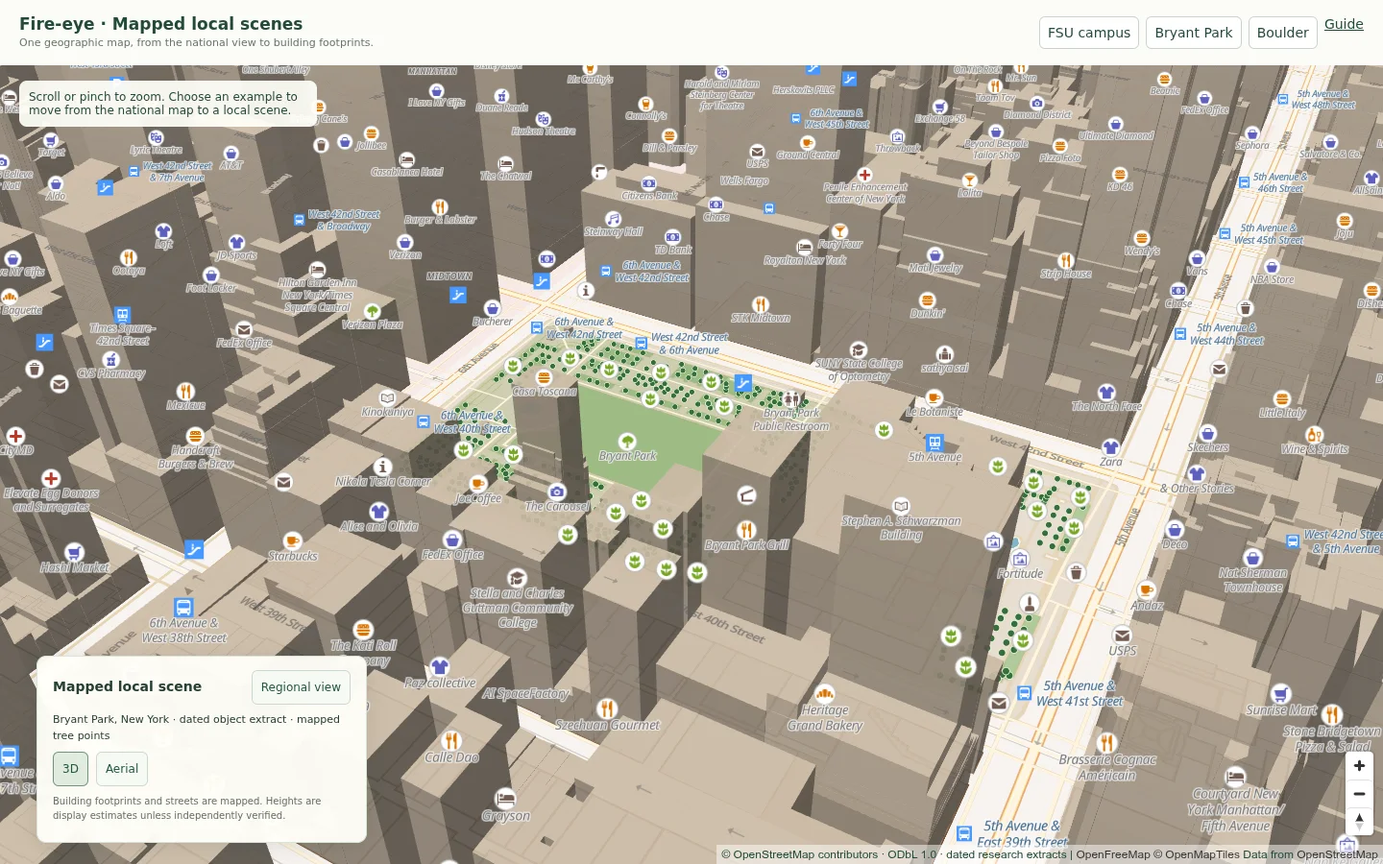
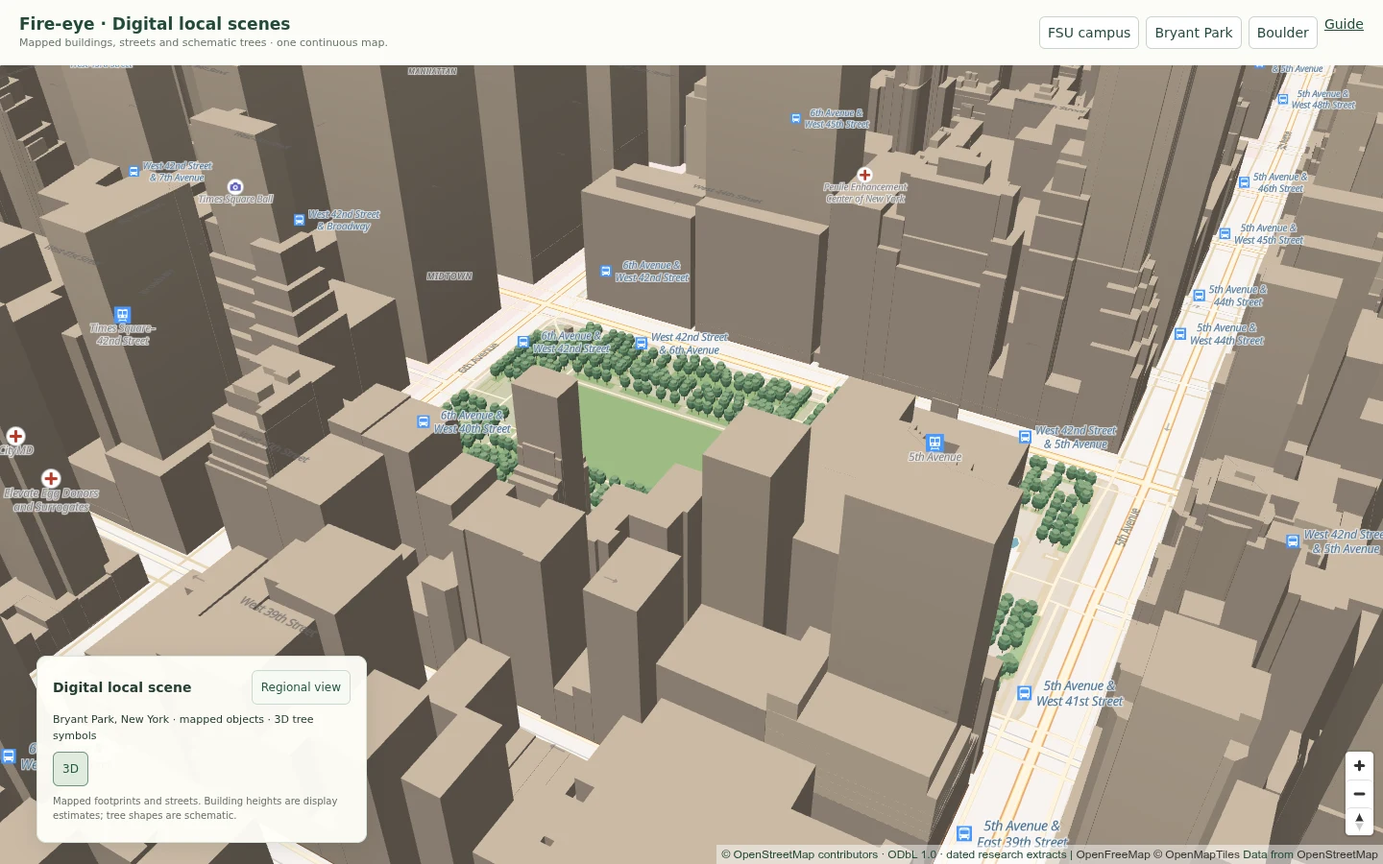
Present mapped local scenes with digital tree geometry

diff --git a/scene/geographic-scene.js b/scene/geographic-scene.js
@@ -2,22 +2,38 @@
 (function(global){
  'use strict';
  const PREFIX='mapped-scene-',SOURCE='openmaptiles';
+ // Render-only symbols: original point geometry and unknown dimensions stay
+ // untouched in the source collection and in the simulation handoff.
+ function treeSymbols(collection){
+  const features=[];
+  for(const f of collection.features){
+   if(f.properties?.kind!=='tree'||f.geometry?.type!=='Point')continue;
+   const [lon,lat]=f.geometry.coordinates;if(!Number.isFinite(lon)||!Number.isFinite(lat)||Math.abs(lat)>85)continue;
+   const tagged=f.properties.height_m,h=typeof tagged==='number'&&tagged>0&&tagged<=120?tagged:8;
+   const parts=[['trunk',.18,0,h*.45],['lower',1.7,h*.36,h*.53],['crown',2.4,h*.53,h*.82],['upper',1.6,h*.82,h]];
+   for(const [part,radius,base,height] of parts){
+    const ring=[];for(let i=0;i<8;i++){const angle=i*Math.PI/4;ring.push([lon+radius*Math.cos(angle)/(111320*Math.cos(lat*Math.PI/180)),lat+radius*Math.sin(angle)/111320]);}ring.push([...ring[0]]);
+    features.push({type:'Feature',geometry:{type:'Polygon',coordinates:[ring]},properties:{kind:'tree',source_id:f.properties.source_id,render_part:part,render_base_m:base,render_height_m:height,display_only:true}});
+   }
+  }
+  return {type:'FeatureCollection',features};
+ }
  function mount(map,options={}){
   const create=(tag,text,cls)=>{const e=document.createElement(tag);if(text)e.textContent=text;if(cls)e.className=cls;return e;};
-  const panel=create('section',null,'mapped-scene-panel');panel.hidden=true;panel.setAttribute('aria-label','Mapped local scene');
-  const top=create('div',null,'mapped-scene-heading'),title=create('strong','Mapped local scene'),back=create('button','Regional view');back.type='button';
+  const panel=create('section',null,'mapped-scene-panel');panel.hidden=true;panel.setAttribute('aria-label','Digital local scene');
+  const top=create('div',null,'mapped-scene-heading'),title=create('strong','Digital local scene'),back=create('button','Regional view');back.type='button';
   top.append(title,back);panel.append(top);
   const status=create('p','Zoom in to explore mapped buildings and streets.','mapped-scene-status');status.setAttribute('role','status');panel.append(status);
-  const actions=create('div',null,'mapped-scene-actions'),tilt=create('button','3D'),aerial=create('button','Aerial'),illustration=create('button','Illustration');
-  for(const b of [tilt,aerial,illustration]){b.type='button';actions.append(b);}panel.append(actions);
-  tilt.setAttribute('aria-pressed','false');aerial.setAttribute('aria-pressed','false');
-  const note=create('p','Building footprints and streets are mapped. Heights are display estimates unless independently verified.','mapped-scene-note');panel.append(note);
-  const imageryNote=create('p','USGS / USDA orthophotography · imagery dates vary by location; not live.','mapped-scene-note');imageryNote.hidden=true;panel.append(imageryNote);
+  const actions=create('div',null,'mapped-scene-actions'),tilt=create('button','3D'),illustration=create('button','Illustration');
+  for(const b of [tilt,illustration]){b.type='button';actions.append(b);}panel.append(actions);
+  tilt.setAttribute('aria-pressed','false');
+  const note=create('p','Mapped footprints and streets. Building heights are display estimates; tree shapes are schematic.','mapped-scene-note');panel.append(note);
   const detail=create('div',null,'mapped-scene-detail');detail.hidden=true;panel.append(detail);
   (options.container||document.body).append(panel);
-  let ready=false,disposed=false,installing=false,previous=null,popup=null,requested=false,aerialEnabled=false,terrainTilt=false,metricsTimer=null,imageryFailed=false;
+  let ready=false,disposed=false,installing=false,previous=null,popup=null,requested=false,terrainTilt=false,metricsTimer=null;
   let catalogTask=null,areaId=null,area=null,areaData=null,areaController=null,areaSequence=0;
   const objectSource=PREFIX+'objects',objectLayers=[PREFIX+'object-areas',PREFIX+'object-buildings',PREFIX+'object-height',PREFIX+'object-roads',PREFIX+'object-trees',PREFIX+'object-footprints'];
+  const treeSource=PREFIX+'tree-symbols',treeLayer=PREFIX+'tree-models';let treeData=null;
   const areaCache=new Map(),empty={type:'FeatureCollection',features:[]};
   const layers=[PREFIX+'areas',PREFIX+'water',PREFIX+'paths',PREFIX+'roads',PREFIX+'buildings',PREFIX+'outlines'];
   const opacity=['interpolate',['linear'],['zoom'],13,0,15,1];
@@ -33,7 +49,7 @@
     add(layers[1],'fill','water',{'fill-color':'#79b3c4','fill-opacity':['interpolate',['linear'],['zoom'],13,0,15,.7]});
     add(layers[2],'line','transportation',{'line-color':'#e8d6b4','line-width':['interpolate',['exponential',1.5],['zoom'],13,.7,16,2,20,12],'line-opacity':opacity},['all',['!=',['get','brunnel'],'tunnel'],['match',['get','class'],['path','track','pedestrian'],true,false]]);
     add(layers[3],'line','transportation',{'line-color':'#fbf8ef','line-width':['interpolate',['exponential',1.5],['zoom'],13,1,16,3,20,20],'line-opacity':opacity},['all',['!=',['get','brunnel'],'tunnel'],['match',['get','class'],['motorway','trunk','primary','secondary','tertiary','minor','service','street'],true,false]]);
-    add(layers[4],'fill-extrusion','building',{'fill-extrusion-color':'#c4b39e','fill-extrusion-opacity':['interpolate',['linear'],['zoom'],14,0,15.5,.9],'fill-extrusion-height':['interpolate',['linear'],['zoom'],14.8,0,16,['max',0,['min',1000,['to-number',['get','render_height'],0]]]],'fill-extrusion-base':['max',0,['to-number',['get','render_min_height'],0]]},['!=',['get','hide_3d'],true]);
+    add(layers[4],'fill-extrusion','building',{'fill-extrusion-color':'#c4b39e','fill-extrusion-opacity':['interpolate',['linear'],['zoom'],14,0,15.5,1],'fill-extrusion-height':['interpolate',['linear'],['zoom'],14.8,0,16,['max',0,['min',1000,['to-number',['get','render_height'],0]]]],'fill-extrusion-base':['max',0,['to-number',['get','render_min_height'],0]]},['!=',['get','hide_3d'],true]);
     add(layers[5],'line','building',{'line-color':'#705e4d','line-width':['interpolate',['linear'],['zoom'],14,.3,18,1.1],'line-opacity':opacity});
     if(options.catalogURL){
      if(!map.getSource(objectSource))map.addSource(objectSource,{type:'geojson',data:areaData||empty,attribution:'© OpenStreetMap contributors · ODbL 1.0 · dated research extracts'});
@@ -44,7 +60,10 @@
      // Use one extrusion surface; duplicate, near-identical meshes produce
      // depth flicker. Complete source geometry/height remains in the contract.
      objectLayer(objectLayers[3],'line',{'line-color':'#fff4df','line-width':['interpolate',['linear'],['zoom'],14,1,19,4]},['all',['==',['get','kind'],'transportation'],['!=',['get','below_ground'],true],['!=',['get','indoor'],true]]);
-     objectLayer(objectLayers[4],'circle',{'circle-radius':['interpolate',['linear'],['zoom'],14,1.4,18,3.8,20,5],'circle-color':'#346f3d','circle-stroke-width':.7,'circle-stroke-color':'#e3efcf'},['==',['get','kind'],'tree']);
+     const pointFade=['interpolate',['linear'],['zoom'],16,1,17,0];
+     objectLayer(objectLayers[4],'circle',{'circle-radius':['interpolate',['linear'],['zoom'],14,1.4,18,3.8,20,5],'circle-color':'#346f3d','circle-opacity':pointFade,'circle-stroke-opacity':pointFade,'circle-stroke-width':.7,'circle-stroke-color':'#e3efcf'},['==',['get','kind'],'tree']);
+     if(!map.getSource(treeSource))map.addSource(treeSource,{type:'geojson',data:treeData||empty});
+     if(!map.getLayer(treeLayer))map.addLayer({id:treeLayer,type:'fill-extrusion',source:treeSource,minzoom:16,paint:{'fill-extrusion-color':['match',['get','render_part'],'trunk','#806249','lower','#4a7759','crown','#628f69','#85a67d'],'fill-extrusion-opacity':['interpolate',['linear'],['zoom'],16,0,17,1],'fill-extrusion-base':['get','render_base_m'],'fill-extrusion-height':['get','render_height_m']}},firstSymbol());
     }
     // Ground lines and point symbols belong below buildings, not over roofs.
     for(const id of [layers[5],...objectLayers]){
@@ -55,18 +74,9 @@
    }catch{status.textContent='Local map detail is loading; the regional map remains available.';}
    finally{installing=false;}
   }
-  function hideAerial(){if(map.getLayer(PREFIX+'aerial'))map.setPaintProperty(PREFIX+'aerial','raster-opacity',0);}
-  function applyAerial(){
-   if(!aerialEnabled){hideAerial();return;}
-   try{
-    if(!map.getSource(PREFIX+'aerial'))map.addSource(PREFIX+'aerial',{type:'raster',tiles:['https://basemap.nationalmap.gov/arcgis/rest/services/USGSImageryOnly/MapServer/tile/{z}/{y}/{x}'],tileSize:256,minzoom:13,maxzoom:16,attribution:'USGS / USDA The National Map orthophotography; acquisition dates vary'});
-    if(!map.getLayer(PREFIX+'aerial'))map.addLayer({id:PREFIX+'aerial',type:'raster',source:PREFIX+'aerial',minzoom:13,paint:{'raster-opacity':.92,'raster-fade-duration':200}},map.getLayer(layers[0])?layers[0]:firstSymbol());
-    const alpha=imageryFailed?0:.92;if(map.getPaintProperty(PREFIX+'aerial','raster-opacity')!==alpha)map.setPaintProperty(PREFIX+'aerial','raster-opacity',alpha);
-   }catch{imageryFailed=true;hideAerial();}
-  }
   function metrics(){
    if(disposed||panel.hidden||!ready)return;
-   try{const ids=new Set(map.queryRenderedFeatures({layers:[layers[4]]}).map(f=>String(f.id??JSON.stringify(f.geometry.coordinates))));status.textContent=imageryFailed?'Aerial imagery could not load; mapped geometry remains visible.':area?area.title+' · dated object extract'+(area.feature_counts.tree?' · mapped tree points':''):ids.size?ids.size.toLocaleString()+' mapped building parts in view · select an outline to inspect':'Mapped local detail · zoom or pan to a built-up area';}catch{}
+   try{const ids=new Set(map.queryRenderedFeatures({layers:[layers[4]]}).map(f=>String(f.id??JSON.stringify(f.geometry.coordinates))));status.textContent=area?area.title+' · mapped objects'+(area.feature_counts.tree?' · 3D tree symbols':' · no tree inventory in this extract'):ids.size?ids.size.toLocaleString()+' mapped building parts in view · select an outline to inspect':'Mapped local detail · zoom or pan to a built-up area';}catch{}
   }
   async function loadArea(){
    if(disposed||!options.catalogURL||map.getZoom()<14)return;
@@ -76,7 +86,7 @@
     const catalog=await catalogTask;if(disposed||map.getZoom()<14)return;
     if(catalog.schema_version!==1||catalog.kind!=='geographic-scene-catalog'||!Array.isArray(catalog.areas)||catalog.areas.length>50)throw Error('Unsupported object catalog');
     const bounds=map.getBounds(),found=catalog.areas.find(a=>{const b=a.bbox_wgs84;return b&&b.length===4&&b.every(Number.isFinite)&&b[0]<bounds.getEast()&&b[2]>bounds.getWest()&&b[1]<bounds.getNorth()&&b[3]>bounds.getSouth();});
-    const next=found?.id||null;if(areaId===next)return;areaId=next;const seq=++areaSequence;areaController?.abort();area=null;areaData=null;map.getSource(objectSource)?.setData(empty);
+    const next=found?.id||null;if(areaId===next)return;areaId=next;const seq=++areaSequence;areaController?.abort();area=null;areaData=null;treeData=null;map.getSource(objectSource)?.setData(empty);map.getSource(treeSource)?.setData(empty);
     if(!found){scheduleMetrics();return;}
     let data=areaCache.get(found.id);
     if(!data){
@@ -87,7 +97,7 @@
      data=JSON.parse(new TextDecoder().decode(bytes));if(data.type!=='FeatureCollection'||!Array.isArray(data.features)||data.features.length>10000)throw Error('Invalid object collection');
      areaCache.set(found.id,data);while(areaCache.size>3)areaCache.delete(areaCache.keys().next().value);
     }
-    if(disposed||seq!==areaSequence)return;area=found;areaData=data;ensure();map.getSource(objectSource)?.setData(data);scheduleMetrics();
+    if(disposed||seq!==areaSequence)return;area=found;areaData=data;treeData=treeSymbols(data);ensure();map.getSource(objectSource)?.setData(data);map.getSource(treeSource)?.setData(treeData);scheduleMetrics();
    }catch(e){if(e.name!=='AbortError'){areaId=null;status.textContent='Detailed object extract is unavailable; the mapped basemap remains usable.';}}
   }
   function scheduleMetrics(){clearTimeout(metricsTimer);metricsTimer=setTimeout(metrics,350);}
@@ -120,14 +130,15 @@
    if(disposed||map.getZoom()<14||!ready)return false;
    const rendered=map.queryRenderedFeatures(e.point);
    if(rendered.some(f=>['WF','RX','CX','detection'].includes(f.properties?.kind)))return false;
-   const feature=rendered.find(f=>f.layer.id===objectLayers[4])||rendered.find(f=>f.source===objectSource&&f.properties?.kind==='building')||rendered.find(f=>objectLayers.includes(f.layer.id))||rendered.find(f=>[layers[4],layers[5],layers[3],layers[2]].includes(f.layer.id));
+   const feature=rendered.find(f=>f.layer.id===treeLayer)||rendered.find(f=>f.layer.id===objectLayers[4])||rendered.find(f=>f.source===objectSource&&f.properties?.kind==='building')||rendered.find(f=>objectLayers.includes(f.layer.id))||rendered.find(f=>[layers[4],layers[5],layers[3],layers[2]].includes(f.layer.id));
    if(!feature)return false;
-   if(feature.source===objectSource){
-    const p=feature.properties||{},original=areaData?.features.find(f=>f.properties.source_id===p.source_id),heading=p.name||p.address||({tree:'Mapped tree point',building:'Mapped building',pedestrian_area:'Mapped pedestrian area',land_area:'Mapped land use',transportation:'Mapped street / path',water:'Mapped water'}[p.kind]||'Mapped object');
+   if(feature.source===objectSource||feature.source===treeSource){
+    if(!area)return false;
+    const original=areaData?.features.find(f=>f.properties.source_id===feature.properties?.source_id),p=original?.properties||feature.properties||{},heading=p.name||p.address||({tree:'Mapped tree location',building:'Mapped building',pedestrian_area:'Mapped pedestrian area',land_area:'Mapped land use',transportation:'Mapped street / path',water:'Mapped water'}[p.kind]||'Mapped object');
     detail.replaceChildren(create('strong',heading),create('p',p.source_id+' · OpenStreetMap'),create('p',e.lngLat.lat.toFixed(6)+'°, '+e.lngLat.lng.toFixed(6)));
     if(p.address)detail.append(create('p',p.address));
     if(['tree','building'].includes(p.kind))detail.append(create('p',typeof p.height_m==='number'?'Source-tagged height: '+p.height_m+' m; not independently surveyed here.':'Height is not mapped.'));
-    if(p.kind==='tree')detail.append(create('p','Point denotes a recorded tree location; symbol size does not represent crown diameter.'));
+    if(p.kind==='tree')detail.append(create('p','Location follows a source tree record. Shape and crown size are schematic; unrecorded height uses an 8 m display symbol.'));
     if(p.kind==='transportation')detail.append(create('p','Mapped centerline; display width is schematic.'));
     detail.append(create('p','Extract retrieved '+area.retrieved_at_utc.slice(0,10)+'. Source edit date is not survey date.'));detail.hidden=false;
     options.onObject?.({kind:p.kind,selected_wgs84:[e.lngLat.lng,e.lngLat.lat],source:'OpenStreetMap',source_feature_id:p.source_id,geometry_is_display_tile:false,geometry:original?.geometry||null,properties:original?.properties||p});return true;
@@ -139,14 +150,13 @@
    return true;
   }
   back.onclick=regional;tilt.onclick=()=>{terrainTilt=map.getPitch()<15;map.easeTo({pitch:terrainTilt?52:0,duration:450});};
-  aerial.onclick=()=>{aerialEnabled=!aerialEnabled;imageryFailed=false;aerial.setAttribute('aria-pressed',String(aerialEnabled));imageryNote.hidden=!aerialEnabled;applyAerial();};
   illustration.onclick=()=>options.openIllustration?.();if(!options.openIllustration)illustration.hidden=true;
-  const styled=()=>{ensure();if(aerialEnabled&&ready)applyAerial();};
+  const styled=()=>ensure();
   const moved=()=>{scheduleMetrics();loadArea();};
-  const failed=e=>{if(e.sourceId===PREFIX+'aerial'){imageryFailed=true;hideAerial();scheduleMetrics();}else if(e.sourceId===SOURCE)status.textContent='Street tiles are temporarily unavailable; the regional map remains available.';};
+  const failed=e=>{if(e.sourceId===SOURCE)status.textContent='Street tiles are temporarily unavailable; the regional map remains available.';};
   map.on('zoom',sync);map.on('zoomend',onZoomEnd);map.on('pitchend',sync);map.on('moveend',moved);map.on('styledata',styled);map.on('error',failed);
   map.setMaxZoom(20);ensure();sync();
-  return {ready:true,enter,regional,onMapClick,panel,get geometryReady(){return ready;},get selectedArea(){return area?.id||null;},dispose(){disposed=true;areaSequence++;areaController?.abort();clearTimeout(metricsTimer);map.off('zoom',sync);map.off('zoomend',onZoomEnd);map.off('pitchend',sync);map.off('moveend',moved);map.off('styledata',styled);map.off('error',failed);popup?.remove();panel.remove();for(const id of [...layers,...objectLayers,PREFIX+'aerial'])if(map.getLayer(id))map.removeLayer(id);if(map.getSource(PREFIX+'aerial'))map.removeSource(PREFIX+'aerial');if(map.getSource(objectSource))map.removeSource(objectSource);options.onDetailScale?.(1);}};
+  return {ready:true,enter,regional,onMapClick,panel,get geometryReady(){return ready;},get selectedArea(){return area?.id||null;},dispose(){disposed=true;areaSequence++;areaController?.abort();clearTimeout(metricsTimer);map.off('zoom',sync);map.off('zoomend',onZoomEnd);map.off('pitchend',sync);map.off('moveend',moved);map.off('styledata',styled);map.off('error',failed);popup?.remove();panel.remove();for(const id of [...layers,...objectLayers,treeLayer])if(map.getLayer(id))map.removeLayer(id);if(map.getSource(treeSource))map.removeSource(treeSource);if(map.getSource(objectSource))map.removeSource(objectSource);options.onDetailScale?.(1);}};
  }
  global.FireEyeGeographicScene={mount};
 })(window);

diff --git a/demo/index.html b/demo/index.html
@@ -1,6 +1,6 @@
 <!doctype html>
-<html lang="en"><head><meta charset="utf-8"><meta name="viewport" content="width=device-width,initial-scale=1"><title>Fire-eye · Mapped local scenes</title>
+<html lang="en"><head><meta charset="utf-8"><meta name="viewport" content="width=device-width,initial-scale=1"><title>Fire-eye · Digital local scenes</title>
 <link rel="stylesheet" href="vendor/maplibre.css"><link rel="stylesheet" href="../scene/geographic-scene.css">
 <style>html,body{margin:0;height:100%;font:14px system-ui,sans-serif;color:#244a3b;--sidebar:0px}#map{position:absolute;inset:68px 0 0}header{position:relative;z-index:2;display:flex;align-items:center;justify-content:space-between;gap:12px;padding:12px 20px;background:#fbfcf7;height:44px}header strong{font-size:17px}header p{font-size:11px;margin:3px 0;color:#68766a}nav{display:flex;gap:7px}button{font:inherit;padding:8px;border:1px solid #c7d4c9;border-radius:6px;background:white;color:inherit;cursor:pointer}a{color:inherit}#message{position:absolute;left:20px;top:84px;z-index:1;background:#fffef7ee;border-radius:8px;padding:10px;max-width:290px;font-size:12px}@media(max-width:640px){header{height:78px;align-items:flex-start;padding:10px;flex-direction:column;gap:4px}header strong{font-size:15px}#map{top:98px}#message{top:112px;left:10px;max-width:245px}nav button{font-size:12px;padding:6px}.mapped-scene-panel{bottom:42px}}</style>
-</head><body><header><div><strong>Fire-eye · Mapped local scenes</strong><p>One geographic map, from the national view to building footprints.</p></div><nav aria-label="Example locations"><button data-point="-84.2975,30.443">FSU campus</button><button data-point="-73.9832,40.7536">Bryant Park</button><button data-point="-105.2814,40.0189">Boulder</button><a href="https://github.com/LabRAI/fire-eye-landscape-context">Guide</a></nav></header><div id="message">Scroll or pinch to zoom. Choose an example to move from the national map to a local scene.</div><div id="map"></div>
+</head><body><header><div><strong>Fire-eye · Digital local scenes</strong><p>Mapped buildings, streets and schematic trees · one continuous map.</p></div><nav aria-label="Example locations"><button data-point="-84.2975,30.443">FSU campus</button><button data-point="-73.9832,40.7536">Bryant Park</button><button data-point="-105.2814,40.0189">Boulder</button><a href="https://github.com/LabRAI/fire-eye-landscape-context">Guide</a></nav></header><div id="message">Scroll or pinch to zoom. Choose an example to move from the national map to a local scene.</div><div id="map"></div>
 <script src="vendor/maplibre.js"></script><script src="../scene/geographic-scene.js"></script><script src="demo.js"></script></body></html>

diff --git a/demo/demo.js b/demo/demo.js
@@ -1,5 +1,5 @@
 'use strict';
 const map=new maplibregl.Map({container:'map',style:'https://tiles.openfreemap.org/styles/bright',center:[-98,38],zoom:3.4,maxZoom:20,antialias:true,attributionControl:true});
 map.addControl(new maplibregl.NavigationControl(),'bottom-right');
-map.on('load',()=>{const scene=FireEyeGeographicScene.mount(map,{catalogURL:'../scene/catalog.json'});window.mappedSceneDemo={map,scene};for(const button of document.querySelectorAll('[data-point]'))button.onclick=()=>{document.getElementById('message').hidden=true;scene.enter(button.dataset.point.split(',').map(Number));};map.on('click',e=>scene.onMapClick(e));});
+map.on('load',()=>{const scene=FireEyeGeographicScene.mount(map,{catalogURL:'../scene/catalog.json',onObject:detail=>window.dispatchEvent(new CustomEvent('fire-eye:mapped-object',{detail}))});window.mappedSceneDemo={map,scene};for(const button of document.querySelectorAll('[data-point]'))button.onclick=()=>{document.getElementById('message').hidden=true;scene.enter(button.dataset.point.split(',').map(Number));};map.on('click',e=>scene.onMapClick(e));});
 map.on('error',()=>{if(!window.mappedSceneDemo)document.getElementById('message').textContent='The map source could not load. Reload to try again.';});

diff --git a/docs/DATA_SOURCES.md b/docs/DATA_SOURCES.md
@@ -1,6 +1,7 @@
 # Building-scale scene data: access and selection
 
-Checked 1 November 2026. This document separates working integrations from
+Source access checked 1 November 2026; integration status updated 2 November.
+This document separates working integrations from
 candidates. It does not claim survey-level accuracy or complete national coverage
 for individual trees, building heights, plaza boundaries or address points.
 
@@ -9,13 +10,13 @@ for individual trees, building heights, plaza boundaries or address points.
 | CONUS building outlines and optional attributes | Overture Buildings, versioned GeoParquet and STAC catalog | Verified public catalog; national bulk-ingestion candidate. Latest catalog release at this check: 2026-10-21.0. Not downloaded nationwide. |
 | Roads, paths and connectivity | Overture Transportation; OpenStreetMap | OSM streets appear in the shared-map viewer. Two bounded OSM extracts preserve complete available object geometry. Centerlines are not pavement polygons. |
 | Building-level basemap | OpenFreeMap / OpenMapTiles, sourced from OSM | Integrated. Planet metadata reported native vector tiles through zoom 14; deeper zoom enlarges/derives display from those tiles. Native building geometry is not a 5 km forecast-grid refinement. |
-| Plazas, pedestrian surfaces, greenspace, water and tagged trees | OSM object geometries and tags | Integrated in the two sample extracts. Missing mapped features remain missing. A tree point is drawn at its source coordinate, with a symbolic radius. |
-| Aerial reference for roofs, pavement, plazas and canopy | USGS / USDA The National Map orthophotography | Optional viewer layer. Service description says ground resolution varies from six inches to one metre. Cache zoom levels do not guarantee new detail at every level. Dates vary by place; the service's refresh text is not a per-image acquisition date. |
+| Plazas, pedestrian surfaces, greenspace, water and tagged trees | OSM object geometries and tags | Integrated in the two sample extracts. Missing mapped features remain missing. A source tree point is drawn at its recorded coordinate, with a schematic 3D symbol at local zoom. |
+| Aerial reference for roofs, pavement, plazas and canopy | USGS / USDA The National Map orthophotography | Offline validation candidate; removed from the digital-scene viewer. Service description says ground resolution varies from six inches to one metre. Cache zoom levels do not guarantee new detail at every level. Dates vary by place; the service's refresh text is not a per-image acquisition date. |
 | Terrain elevation and vertical vegetation structure | USGS 3DEP 1 m DEM where available, lidar point clouds and other elevation products | Dataset-discovery API verified. Detailed terrain processing is a next-stage adapter; no terrain-following physical simulation is claimed here. |
 | Finding a building by address | Overture Addresses; official local address points | Candidate for address-index ingestion. The current main Fire-eye search remains city/county/state/coordinate/incident based; nationwide street-address geocoding is not newly delivered. |
 | Authoritative local footprints, parcels, sidewalks, plazas and tree inventories | City/county GIS, commonly ArcGIS REST FeatureServer services | Prefer when coverage, date and license are suitable. Service URL and owner must be checked individually. A parcel is not a building footprint. |
 | Alternative national building outlines | Microsoft US Building Footprints | Candidate / cross-check source. Do not independently merge overlapping inventories without deduplicating and retaining provenance. |
-| Photorealistic 3D city surfaces | Google Map Tiles Photorealistic 3D Tiles | Optional paid path requiring API credentials, billing and attribution/usage compliance. No key or billing was enabled, and tiles were not copied into our archives. |
+| Photorealistic 3D city surfaces | Google Map Tiles Photorealistic 3D Tiles | Reviewed alternative, not selected for the digital-modeling direction. Requires API credentials, billing and attribution/usage compliance. No key or billing was enabled, and tiles were not copied into our archives. |
 
 ## Working endpoints and recipes
 
@@ -42,7 +43,7 @@ https://docs.overturemaps.org/getting-data/cloud-sources/
 - Vector tile catalog: https://tiles.openfreemap.org/planet
 - Source license: https://www.openstreetmap.org/copyright
 
-The USGS imagery cache returned a real image at zoom 16 in the FSU test and 404 at zoom 17. The viewer therefore caps imagery requests at native tile zoom 16 and enlarges those images at closer camera scales; it does not imply finer imagery content.
+The initial USGS imagery test returned an image at zoom 16 in FSU and 404 at zoom 17. The digital-scene renderer no longer loads this imagery. If used for offline verification, respect its actual source resolution and acquisition date.
 
 The main Overpass endpoint and an alternate timed out during bounded tests on
 this date; the OSM map API succeeded. This is evidence for using offline extracts

diff --git a/docs/DIGITAL_SCENE_DIRECTION.md b/docs/DIGITAL_SCENE_DIRECTION.md
@@ -1,0 +1,75 @@
+# Digital local scenes
+
+Design direction · 2 November 2026
+
+Build a geographically anchored 3D model that people can navigate continuously
+from the national map down to a neighborhood. Buildings, streets, plazas, water
+and vegetation should be recognizable by their recorded positions and geometry.
+Use restrained solid materials and simple geometry; photographic textures are
+not the presentation goal. Orthophotography may support offline validation.
+
+## What we take from the reference
+
+BurnPro3D describes detailed vegetation and fire-behavior models, user-defined
+ignition patterns, environmental conditions and a coupled fire/atmosphere model.
+That suggests a useful separation between geographic scene objects, scenario
+inputs and model outputs. It does not establish that our current renderer has
+those simulation capabilities.
+
+Its public Points2Pano entry was visually inspected on 2 November 2026 and uses
+panoramic imagery. Our visual direction is modeled geometry. The main map exposes
+a login dialog; its authenticated workflow and simulation implementation have
+not been evaluated or reproduced.
+
+Sources: https://burnpro3d.sdsc.edu/index.html and
+https://burnpro3d.sdsc.edu/points2pano/?plot=CASBC_0014&ts=20240913,20241117&m=MDBH
+
+## Scene layers and responsibilities
+
+- **Ground:** a future terrain mesh from actual elevation data, with horizontal
+  CRS, vertical datum, resolution and date. The present pilot uses a flat ground
+  reference; the national atlas's elevation statistics are not a local DEM.
+- **Built environment:** source building footprints, street/path geometry, water
+  and mapped land areas. Missing heights and pavement widths remain unknown in
+  the data contract; renderer estimates are separate.
+- **Vegetation:** recorded tree points can place schematic 3D symbols. Canopy
+  polygons describe canopy extent; they must not silently become measured tree
+  stems. Local lidar or tree inventories are needed for more faithful structure.
+- **Fire and weather:** the simulation owner supplies scenario logic, numerical
+  results and animation. The data adapter supplies geography and provenance.
+  Rendered flame effects alone do not demonstrate validated fire spread.
+
+## First implementation
+
+The shared renderer uses a single MapLibre canvas/camera. Buildings extrude from
+mapped footprints; recorded trees transition from points to low-polygon symbols
+at zoom 16–17. Streets, plazas, vegetation areas and water remain vector geometry.
+The local scene no longer offers an aerial-photo layer. The main platform's
+separate basemap choices are outside this scene change.
+
+Tree symbols are generated only for source tree points. Each uses four small
+octagonal extrusions, with a maximum crown radius of 2.4 m. Missing height uses
+an 8 m **display-only** size. Valid positive source-tagged heights up to 120 m
+are used for display; other values remain preserved in the source record and use
+the display fallback. These shapes do not represent measured crowns, species,
+fuel load or biomass. Clicking a symbol returns the original Point and nullable
+attributes, never its render polygons as surveyed geometry.
+
+The FSU sample has no recorded trees, so none are fabricated. Bryant Park has
+565 source tree points. Both remain dated, limited extracts; this is not a
+nationwide individual-tree reconstruction or building-level fire forecast.
+
+## Next delivery to the simulation author
+
+1. Select a small urban/wildland pilot with actual elevation and canopy/tree data.
+2. Deliver a bounded, versioned scene manifest: WGS84 anchor, local metre CRS,
+   terrain asset and vertical datum, source object IDs, provenance and null fields.
+3. Agree the renderer interface for terrain, structures, vegetation and scenario
+   outputs before adding fire animation. Keep measurements and display assumptions
+   in separate objects.
+4. Validate known landmarks, zoom continuity, object selection and mobile request/
+   memory budgets. Serve prepared assets through HF/static hosting; never require
+   a visitor to launch a national live-data query.
+
+Detailed terrain and an event-conditioned spread engine remain future work.
+The existing forecast values, native resolution and national atlas are unchanged.

diff --git a/docs/DELIVERY_STATUS.md b/docs/DELIVERY_STATUS.md
@@ -1,12 +1,12 @@
 # Geographic scene pilot · delivery status
 
-1 November 2026
+2 November 2026
 
 ## Available in this delivery
 
 - A single MapLibre map and camera from national overview to building-scale view.
-- Gradual street/building detail, 2D/3D viewing, return to regional view, and an
-  optional USGS aerial reference layer with source-failure isolation.
+- Gradual street/building detail, 2D/3D viewing, return to regional view, and
+  schematic 3D tree symbols at recorded locations. No aerial-photo scene layer.
 - Original OSM vector building footprints and street geometry through the public
   OpenFreeMap basemap. Rendered heights remain explicitly described as estimates
   unless independently verified; they are not survey measurements by this project.
@@ -33,12 +33,13 @@ object geometry. The New York converter omitted one incomplete feature. No
 procedural objects were added to fill missing geometry. Zero recorded trees in
 the FSU sample does not mean the campus has no trees.
 
-![Mapped Bryant Park scene](images/bryant-park.webp)
+![Digital Bryant Park scene](images/bryant-park.webp)
 
 Map footprints, tree point positions and scene heights have different evidence
 levels. This screenshot is a real rendering of source data, not an AI-generated
 image; displayed building shapes/heights are not a guarantee of current survey
-accuracy. The source-image capture predates final minor presentation adjustments.
+accuracy. Tree locations follow source records; their displayed shapes and dimensions are
+schematic. See [design direction and next steps](DIGITAL_SCENE_DIRECTION.md).
 
 ## Verified behavior
 
@@ -47,11 +48,12 @@ accuracy. The source-image capture predates final minor presentation adjustments
 - Integration keeps the same selected forecast issue and sidebar state.
 - Clicking the independently selected source-polygon interior identifies
   Robert Manning Strozier Library (OSM way/106455325).
-- The New York scene displays recorded Point geometries for trees.
+- The New York scene displays 565 recorded tree points as schematic 3D symbols;
+  selections return their original Point geometry and nullable heights.
 - Sample geometry passed validity checks; download bytes are hash-checked before
   the viewer adds an object collection.
-- Injected imagery and detailed-object failures preserve the geographic map.
-- Active fires regression passed for standard and 50 m maps on desktop and
+- Detailed-object failures preserve the geographic map.
+- The 1 November active-fires regression passed for standard and 50 m maps on desktop and
   mobile: reports remain over the same heatmap/date, and the tested source
   failure can be retried. No laboratory-server requests were made by these tests.
 - The extractor dependency audit reported zero known vulnerabilities at the check.

diff --git a/README.md b/README.md
@@ -5,11 +5,11 @@ simulation scenes across the contiguous United States. Provide a longitude and
 latitude; receive surface fractions, terrain statistics, source coverage and
 scene-selection tags.
 
-**[Download the complete handoff · v1.1.0](https://github.com/LabRAI/fire-eye-landscape-context/releases/download/v1.1.0/FireEye-Landscape-Context-v1.1.0.zip)**
+**[Download the complete handoff · v1.1.1](https://github.com/LabRAI/fire-eye-landscape-context/releases/download/v1.1.1/FireEye-Landscape-Context-v1.1.1.zip)**
 
 Includes the original national atlas under package/, the new geographic-object samples, scripts, research notes and shared-map demo.
 
-[Integration guide](package/README.md) · [Response format](package/response.schema.json) · [Example responses](package/examples) · [Release and checksums](https://github.com/LabRAI/fire-eye-landscape-context/releases/tag/v1.1.0)
+[Integration guide](package/README.md) · [Response format](package/response.schema.json) · [Example responses](package/examples) · [Release and checksums](https://github.com/LabRAI/fire-eye-landscape-context/releases/tag/v1.1.1)
 
 No GitHub sign-in, API key or laboratory server access is required. The complete
 release ZIP includes the national data. GitHub's green **Code → Download ZIP**
@@ -18,8 +18,10 @@ complete-package link above for coordinate lookup.
 
 ## Building and street detail
 
-A new [mapped-scene demo](https://labrai.github.io/fire-eye-landscape-context/demo/)
-keeps one geographic map and camera from national scale to local buildings.
+A [digital-scene demo](https://labrai.github.io/fire-eye-landscape-context/demo/)
+keeps one geographic map and camera from national scale to local buildings,
+streets and schematic trees at recorded locations. See the
+[digital modeling direction](docs/DIGITAL_SCENE_DIRECTION.md).
 See the [API and data-source review](docs/DATA_SOURCES.md), [implementation plan](docs/MICROSCENE_PLAN.md) and
 [geographic object contract](scene/OBJECT_CONTRACT.md) for the simulation provider.
 This finer scene layer is separate from the unchanged national v1.0.1 atlas.

diff --git a/scene/README.md b/scene/README.md
@@ -33,9 +33,11 @@ visually reduced at high zoom; its values and resolution are unchanged.
 
 The public basemap uses OpenFreeMap's OpenStreetMap/OpenMapTiles vector tiles.
 Their render_height is a display property, not proof of surveyed building height.
-The optional USGS aerial layer helps inspect recognizable geometry and canopy;
-its acquisition dates vary and its imagery is not live. Increasing zoom above a
-tile's native scale only magnifies that tile.
+Recorded tree points transition to schematic 3D symbols at zoom 16–17. Their
+shapes and crown sizes are display assumptions; missing heights remain null in
+the source data. The scene does not load photographic imagery. See the
+[digital-scene direction](../docs/DIGITAL_SCENE_DIRECTION.md) for rendering
+assumptions and the planned terrain/simulation interface.
 
 The full 3D animation engine should consume the geographic object contract in
 [OBJECT_CONTRACT.md](OBJECT_CONTRACT.md), replacing procedural placement where
@@ -46,9 +48,8 @@ real geometry is available. It must retain unknown areas and fields explicitly.
 OpenStreetMap-derived extracts: © OpenStreetMap contributors, ODbL 1.0.
 https://www.openstreetmap.org/copyright
 
-OpenFreeMap / OpenMapTiles provide the displayed vector basemap. USGS / USDA
-The National Map provides optional orthophotography. Original source terms and
-attribution remain applicable. osmtogeojson is a separately installed dependency;
+OpenFreeMap / OpenMapTiles provide the displayed vector basemap. Original source
+terms and attribution remain applicable. osmtogeojson is a separately installed dependency;
 its own license accompanies that package.
 
 To run the complete downloaded demo locally, serve the handoff root with python -m http.server 8000, then open http://localhost:8000/demo/. The online demo loads public map tiles; the national atlas query is independent and works offline once its Python dependencies are installed.

diff --git a/docs/MICROSCENE_PLAN.md b/docs/MICROSCENE_PLAN.md
@@ -1,6 +1,6 @@
 # From regional landscape context to mapped local scenes
 
-Research and implementation plan · 1 November 2026
+Research and implementation plan · updated 2 November 2026
 
 ## Objective
 
@@ -9,8 +9,10 @@ neighborhood and an individual building. Use mapped object geometry for scene
 placement. Retain the existing regional distribution package as environmental
 context; its 3 km cells cannot locate buildings, streets, plazas or individual trees.
 
-The current illustrative scene places assets procedurally, and the independent
-Fire-eye map stops at zoom 12. Both limit recognition of a real target building.
+The first shared-map pilot now reaches zoom 20 using mapped footprints and
+streets. The earlier procedural illustration remains separately labelled.
+Follow the [digital-scene direction](DIGITAL_SCENE_DIRECTION.md): geometric
+models, real geographic anchors and explicit rendering assumptions.
 
 ## Data choices
 
